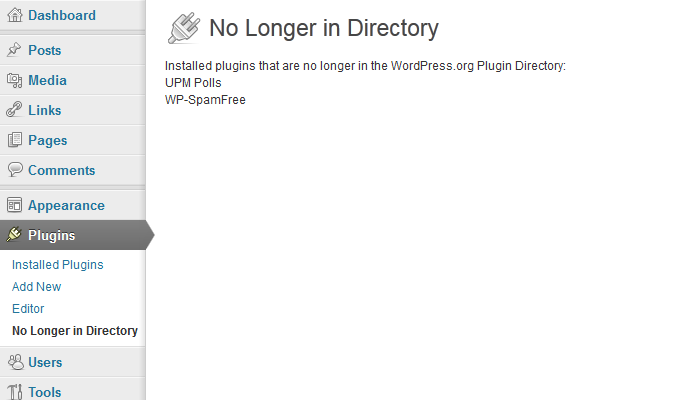
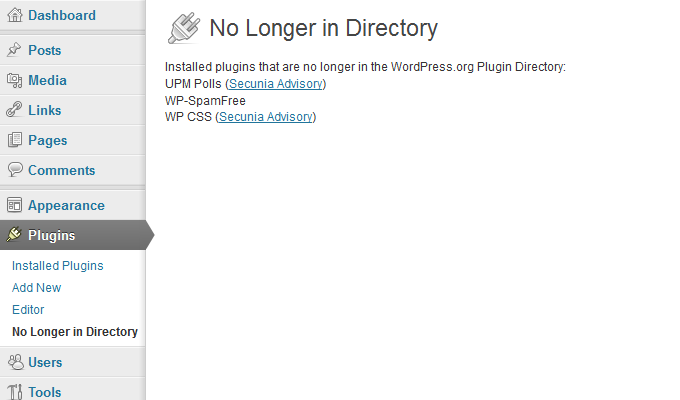
adding version 1.0.2
git-svn-id: https://plugins.svn.wordpress.org/no-longer-in-directory/trunk@519528 b8457f37-d9ea-0310-8a92-e5e31aec5664

Changed region(s): [[0.2471, 0.15, 0.8338, 0.33], [0.0, 0.63, 0.2162, 0.84], [0.3088, 0.03, 0.6485, 0.12]]

diff --git a/plugin-list.php b/plugin-list.php
@@ -80,6 +80,7 @@ ad-manager
 ad-peeps-banner-ad-rotator-for-wordpress
 ad-rotatez
 ad-space-manager
+ad-wizz
 ada-wpmu-sitewide-feed-plugin
 adauthx
 adbrite-widgets
@@ -398,6 +399,7 @@ animasig
 animated-clouds-lite
 animated-twitter-bird
 anime-sub-plugin
+annonces
 annotate
 announcement-and-vertical-scroll-news
 anonymous-commets
@@ -504,6 +506,7 @@ attachments-carousel
 attention-bar
 attractive-view-lite
 audigazmo
+audio
 audio-link-player
 audio-player-oogiechetos
 audio-player123
@@ -1350,6 +1353,7 @@ compras-en-linea
 compress-css
 compression-wp
 concrete
+conduit-banner-selector
 confidentcaptcha
 confirm-email
 confirm-save
@@ -2336,6 +2340,7 @@ featured-blog-authors
 featured-category-slideshow-fcs
 featured-comic
 featured-comments
+featured-content
 featured-content-gallery-2
 featured-content-gallery-plugin
 featured-content-gallery-widget
@@ -2389,6 +2394,7 @@ feedjit
 feedjit-widget-collection
 feedjit-widgets
 feedlinksanitizer
+feedlist
 feedmenow
 feednu
 feedposter
@@ -3973,6 +3979,7 @@ mediaman
 mediashowstyle-plugin
 mediastream
 mediax
+meenews
 meenews-newsletter
 meetup-feed2post
 mega-menu
@@ -4461,6 +4468,7 @@ nextgen-galleryview
 nextgen-imageflow
 nextgen-lzxviewer
 nextgen-slideshowpro
+nextgen-smooth-gallery
 nextpage
 nextpage-paragraph-tag-fix
 nfl-news-scroller
@@ -4572,6 +4580,7 @@ oblique-strategies
 oblique-strategy
 octazen-contacts-importer-friend-inviter
 od-eshop-plugin
+odihost-newsletter-plugin
 oempro
 off
 office-staff-locator
@@ -4771,6 +4780,7 @@ perisort
 permacop
 permalink-redirect-for-wordpress
 permalinker
+permalinks-migration-plugin-for-wordpress
 pers-yafl-plugin
 persian-add-to-social-bookmarking
 persian-buddypress
@@ -4923,6 +4933,7 @@ plugins-link-admin
 plugins-order
 plugins-update-notifier
 plugins-used-plugin-widget
+plugins/wp-starsratebox
 pluginsplugin-compatibility23
 pluginviadeo
 plugoo
@@ -5546,6 +5557,7 @@ rss-feed-extern
 rss-feed-extern-01-2010
 rss-feed-extern-1
 rss-feed-fix
+rss-feed-reader
 rss-feedstat-plugin
 rss-footer-extended
 rss-img
@@ -5723,6 +5735,7 @@ seo
 seo-1
 seo-arama
 seo-auto-linker-1
+seo-automatic-seo-tools
 seo-blogroll-by-category
 seo-comments
 seo-easy-optimizer
@@ -6200,6 +6213,7 @@ social-tagger
 social-widget
 socialbar
 socialbuttons
+socialgrid
 socialist
 socialize-me
 sociallogin
@@ -6940,6 +6954,7 @@ upleitor
 upload-image-to-ressimnet
 upload-mimes-config
 uploader
+uploader
 uploadify
 uploadviewer
 upm-polls
@@ -7090,6 +7105,7 @@ vn-lunar-calendar
 vocabutastic-widget-5-daily-vocab-words
 voda-sms
 vodpod
+vodpod-video-gallery
 voice-vault
 voiceforge-plug-in
 voldo-basic-video-gallery
@@ -7438,6 +7454,7 @@ wordpress-postmapper
 wordpress-posts-order
 wordpress-pregnancy-calculator
 wordpress-privacy-policy-widget
+wordpress-processing-embed
 wordpress-publisher
 wordpress-random-posts-plugin
 wordpress-random-quotes
@@ -7547,6 +7564,7 @@ wp-affiliate-iimage-tracker-advanced
 wp-affiliate-image-tracker
 wp-affiliates
 wp-ajax-modules
+wp-ajax-recent-posts
 wp-al-swfobject
 wp-alexadex
 wp-alexify
@@ -7676,6 +7694,7 @@ wp-cpanel-login-plugin
 wp-cpt-forum
 wp-create-view
 wp-cron-tool
+wp-css
 wp-cu3er
 wp-culumbus
 wp-cumulus-cn
@@ -7926,6 +7945,7 @@ wp-marketing-manager-optin-plugin
 wp-marketplace
 wp-member-site
 wp-memberemail
+wp-menu-creator
 wp-menu-extended
 wp-messenger
 wp-meta-cleaner
@@ -7997,6 +8017,7 @@ wp-paysite
 wp-pdftoxls-widget
 wp-performance-gettext-patch
 wp-petition
+wp-photo-album
 wp-photographer
 wp-photos
 wp-phpbb-thread-link-selector
@@ -8060,6 +8081,7 @@ wp-random-404
 wp-random-elements
 wp-random-posts-widget
 wp-realty
+wp-recentcomments
 wp-reciprocal-links
 wp-recomiendo
 wp-recommendation-slide
@@ -8089,6 +8111,7 @@ wp-rss-thumbnails
 wp-rss20-from-newsyandexru
 wp-rsspromote
 wp-s3-backup-uploads
+wp-safe-search
 wp-sales-automator
 wp-salesmagicians-vote-101
 wp-sape-stat-1-0
@@ -8404,6 +8427,7 @@ wysiwyg-comment-preview
 x-box-360-gamercard
 x-social-sharing
 x509-authentication
+x7host-videox7-ugc-plugin
 xbox-360-gamercard
 xbox-360-gamercard-plugin
 xbox-360-gamercards
@@ -8513,6 +8537,7 @@ youtubewordpresswidget
 youve-been-framed
 yoxview-gallery
 yr-weather
+yt-audio-streaming-audio-from-youtube
 ytcommunity-style-watcher
 yubikey
 yuewei

diff --git a/secunia-advisories.php b/secunia-advisories.php
@@ -1,0 +1,55 @@
+ad-wizz,http://secunia.com/advisories/43964/
+all-in-one-adsense-and-ypn,http://secunia.com/advisories/45579/
+annonces,http://secunia.com/advisories/46070/
+audio,http://secunia.com/advisories/43070/
+bsuite,http://secunia.com/advisories/45234/
+category-list-portfolio-page,http://secunia.com/advisories/46088/
+contact-form-wordpress,http://secunia.com/advisories/46434/
+contus-hd-flv-player,http://secunia.com/advisories/45672/
+dp-thumbnail,http://secunia.com/advisories/46090/
+events-manager-extended,http://secunia.com/advisories/41294/
+featured-content,http://secunia.com/advisories/43064/
+feedlist,http://secunia.com/advisories/42197/
+fmoblog,http://secunia.com/advisories/34341/
+grapefile,http://secunia.com/advisories/45719/
+is-human,http://secunia.com/advisories/44627/
+iwant-one-ihave-one,http://secunia.com/advisories/43467/
+kish-guest-posting,http://secunia.com/advisories/47688/
+lisl-last-image-slider,http://secunia.com/advisories/46108/
+meenews,http://secunia.com/advisories/46969/
+nextgen-smooth-gallery,http://secunia.com/advisories/40858/
+odihost-newsletter-plugin,http://secunia.com/advisories/45643/
+onduit-banner-selector,http://secunia.com/advisories/43062/
+page-flip-image-gallery,http://secunia.com/advisories/33274/
+permalinks-migration-plugin-for-wordpress,http://secunia.com/advisories/28593/
+photoracer,http://secunia.com/advisories/35450/
+php_speedy_wp,http://secunia.com/advisories/43652/
+register-plus-redux,http://secunia.com/advisories/45503/
+register-plus,http://secunia.com/advisories/42360/
+rekt-slideshow,http://secunia.com/advisories/46098/
+rent-a-car,http://secunia.com/advisories/46100/
+rss-feed-reader,http://secunia.com/advisories/43071/
+seo-automatic-seo-tools,http://secunia.com/advisories/42193/
+socialgrid,http://secunia.com/advisories/44256/
+tagninja,http://secunia.com/advisories/43132/
+ucan-post,http://secunia.com/advisories/47656/
+uploader,http://secunia.com/advisories/43075/
+upm-polls,http://secunia.com/advisories/47182/
+vk-gallery,http://secunia.com/advisories/46092/
+vodpod-video-gallery,http://secunia.com/advisories/42195
+wordpress-processing-embed,http://secunia.com/advisories/42545/
+wordpress-whois-search,http://secunia.com/advisories/47428/
+wp-ajax-recent-posts,http://secunia.com/advisories/44348/
+wp-css,http://secunia.com/advisories/45734/
+wp-custom-pages,http://secunia.com/advisories/43963/
+wp-featured-post-with-thumbnail,http://secunia.com/advisories/43072/
+wp-menu-creator,http://secunia.com/advisories/45674/
+wp-photo-album,http://secunia.com/advisories/44351/
+wp-recentcomments,http://secunia.com/advisories/47870/
+wp-safe-search,http://secunia.com/advisories/42544/
+wp-starsratebox,http://secunia.com/advisories/44257/
+wpeasystats,http://secunia.com/advisories/46069/
+wpforum,http://secunia.com/advisories/43552/
+x7host-videox7-ugc-plugin,http://secunia.com/advisories/43069/
+yt-audio-streaming-audio-from-youtube,http://secunia.com/advisories/43539/
+zvote,http://secunia.com/advisories/43419/

diff --git a/no-longer-in-directory.php b/no-longer-in-directory.php
@@ -3,7 +3,7 @@
 Plugin Name: No Longer in Directory
 Plugin URI: http://www.whitefirdesign.com/no-longer-in-directory
 Description: Checks for installed plugins that are no longer in the WordPress.org Plugin Directory.
-Version: 1.0.1
+Version: 1.0.2
 Author: White Fir Design
 Author URI: http://www.whitefirdesign.com/
 License: GPLv2
@@ -42,6 +42,9 @@ function no_longer_in_directory_page() {
 	$plugin_path;
 	$no_longer_in_directory = array();
 	$disappeared_plugins = file(dirname( __FILE__ ) . '/plugin-list.php', FILE_IGNORE_NEW_LINES);
+	
+	//Clean array elements of extraneous characters
+	$disappeared_plugins = array_map( 'trim', $disappeared_plugins );
 
 	//Check for installed plugins that are no longer in the WordPress.org Plugin Directory
 	foreach ( $plugin_list_paths as &$value ) {
@@ -49,8 +52,8 @@ function no_longer_in_directory_page() {
 		if ( in_array ($plugin_path[1][0], $disappeared_plugins )) {
 			//Check that plugin has not returned to the WordPress.org Plugin Directory since plugin list last generated
 			$directory_plugin_head = wp_remote_head('http://wordpress.org/extend/plugins/'.$plugin_path[1][0].'/');
-			if ( $directory_plugin_head [response][code] == "404" )
-				$no_longer_in_directory[] = $plugin_list[$value][Name];
+			if ( $directory_plugin_head ['response']['code'] == "404" )
+				$no_longer_in_directory[$plugin_list[$value]['Name']]= $plugin_path[1][0];
 		}
 	}
 
@@ -59,10 +62,26 @@ function no_longer_in_directory_page() {
 	echo '<div id="icon-plugins" class="icon32"><br /></div>';	
 	echo '<h2>No Longer in Directory</h2><p>';
 	if ( !empty($no_longer_in_directory) ) {
+		
+		//Load Secunia advisories
+		$secunia_file = fopen(dirname( __FILE__ ) . '/secunia-advisories.php', "r");
+		$secunia_advisories = array();
+		while (!feof($secunia_file) ) { 
+			$line = fgetcsv($secunia_file, 1024, ","); 
+			$secunia_advisories[$line[0]] = $line[1]; 
+		}
+
 		_e('Installed plugins that are no longer in the WordPress.org Plugin Directory:');
 		echo '<br />';
-		foreach ( $no_longer_in_directory as &$plugin_name )
-			echo $plugin_name.'</li><br />';
+		foreach ( $no_longer_in_directory as $plugin_name => &$plugin_stub ) {
+			echo $plugin_name;
+
+			//Check for Secunia advisory
+			if (array_key_exists($plugin_stub, $secunia_advisories))
+				echo ' (<a href="'.$secunia_advisories[$plugin_stub].'" target="_blank">Secunia Advisory</a>)';
+			
+			echo '</li><br />';
+		}	
 	}
 	else 
 		_e('No installed plugins are no longer in the WordPress.org Plugin Directory.');
